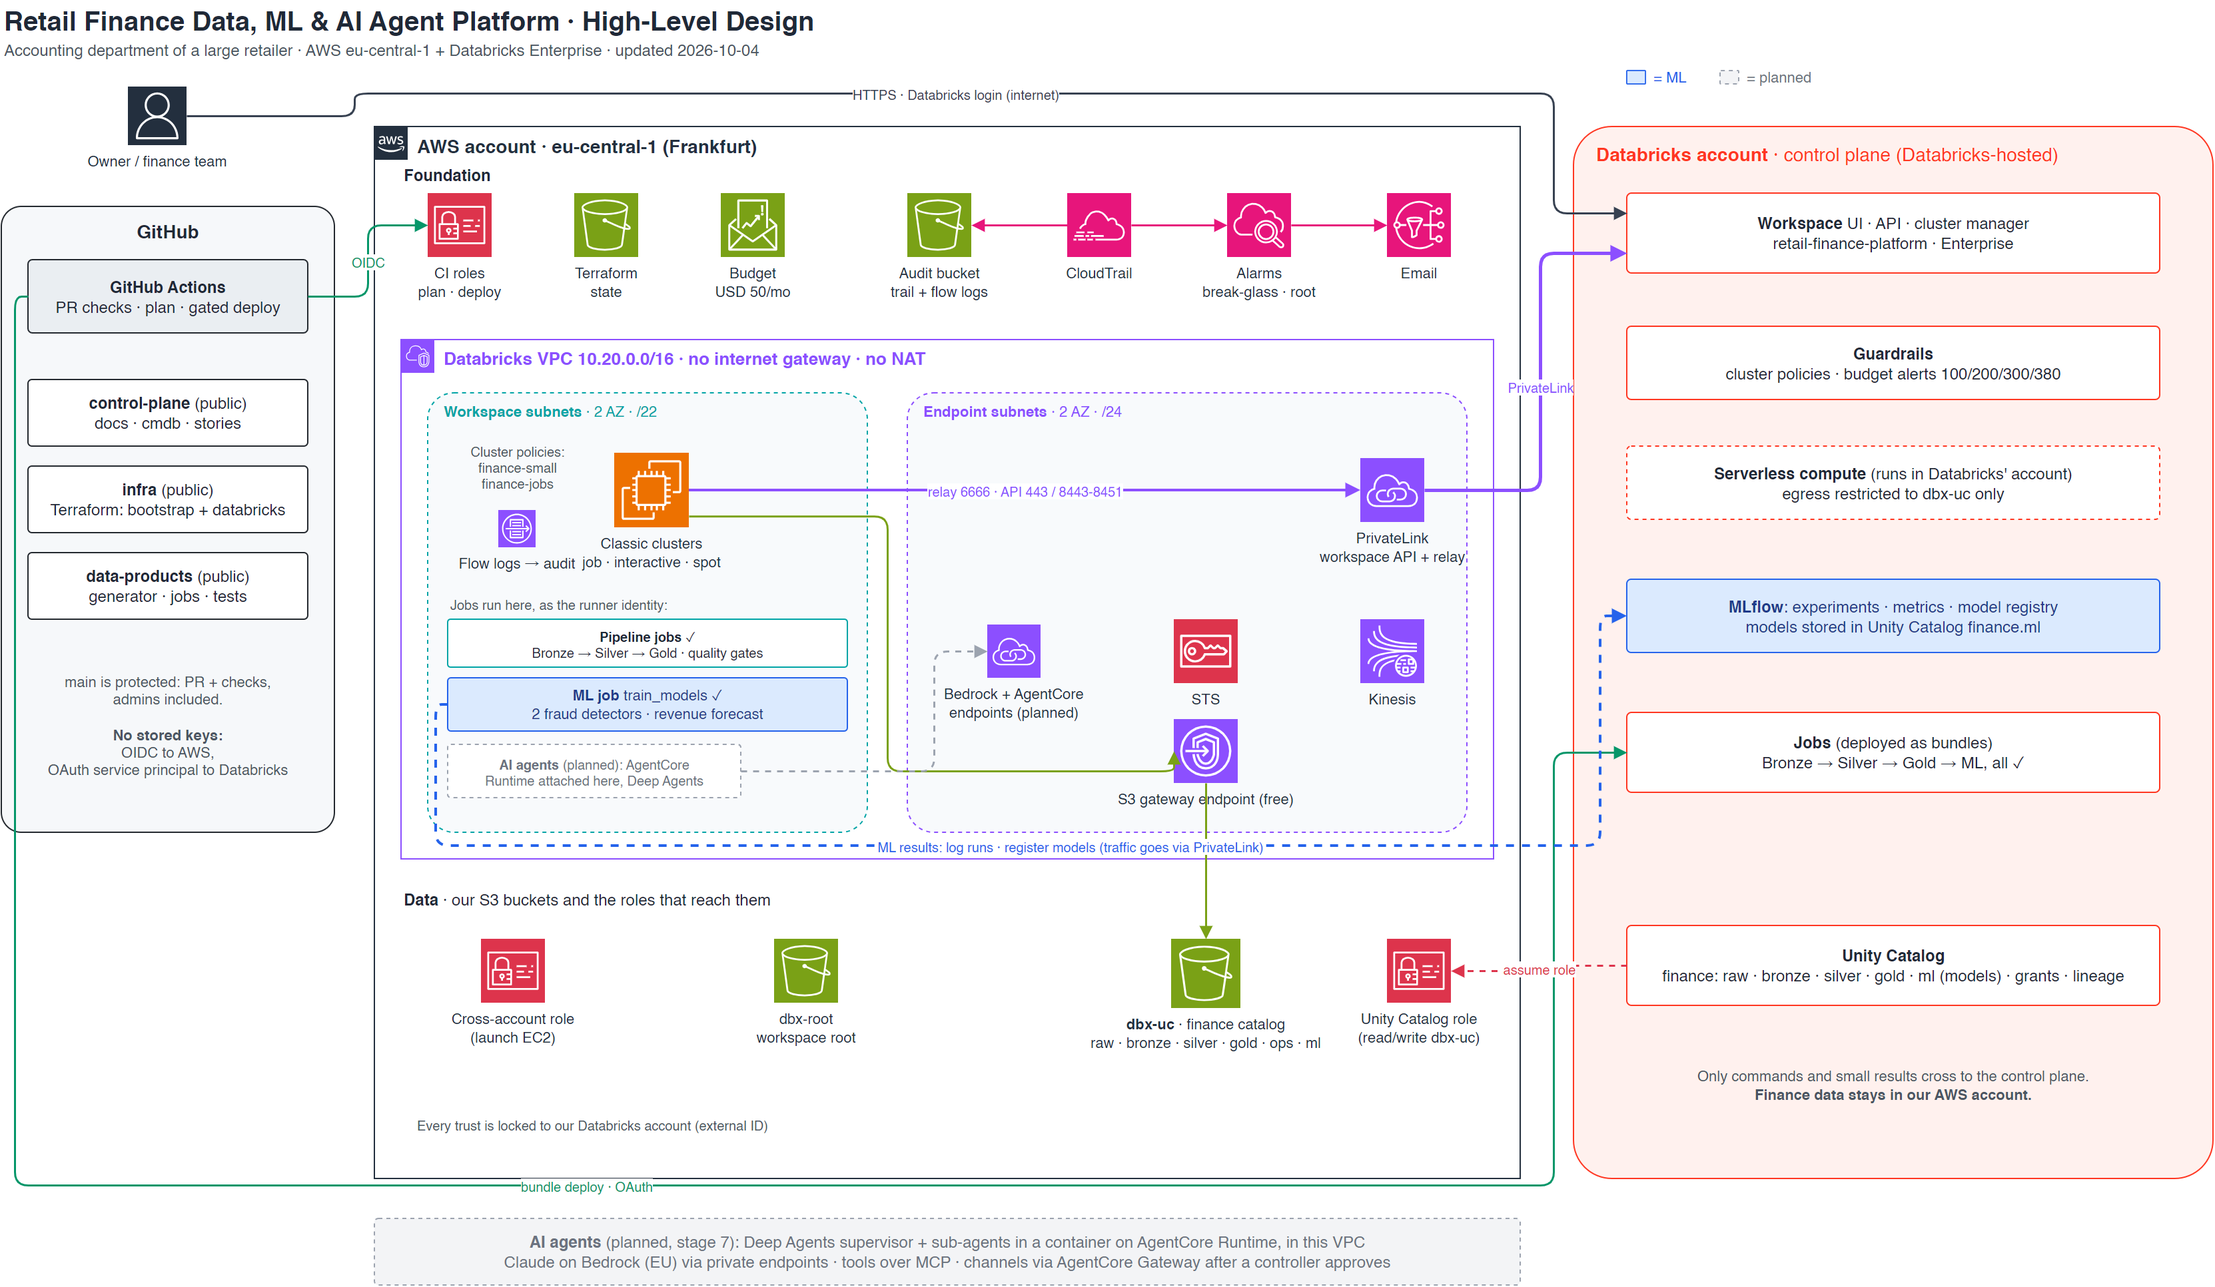
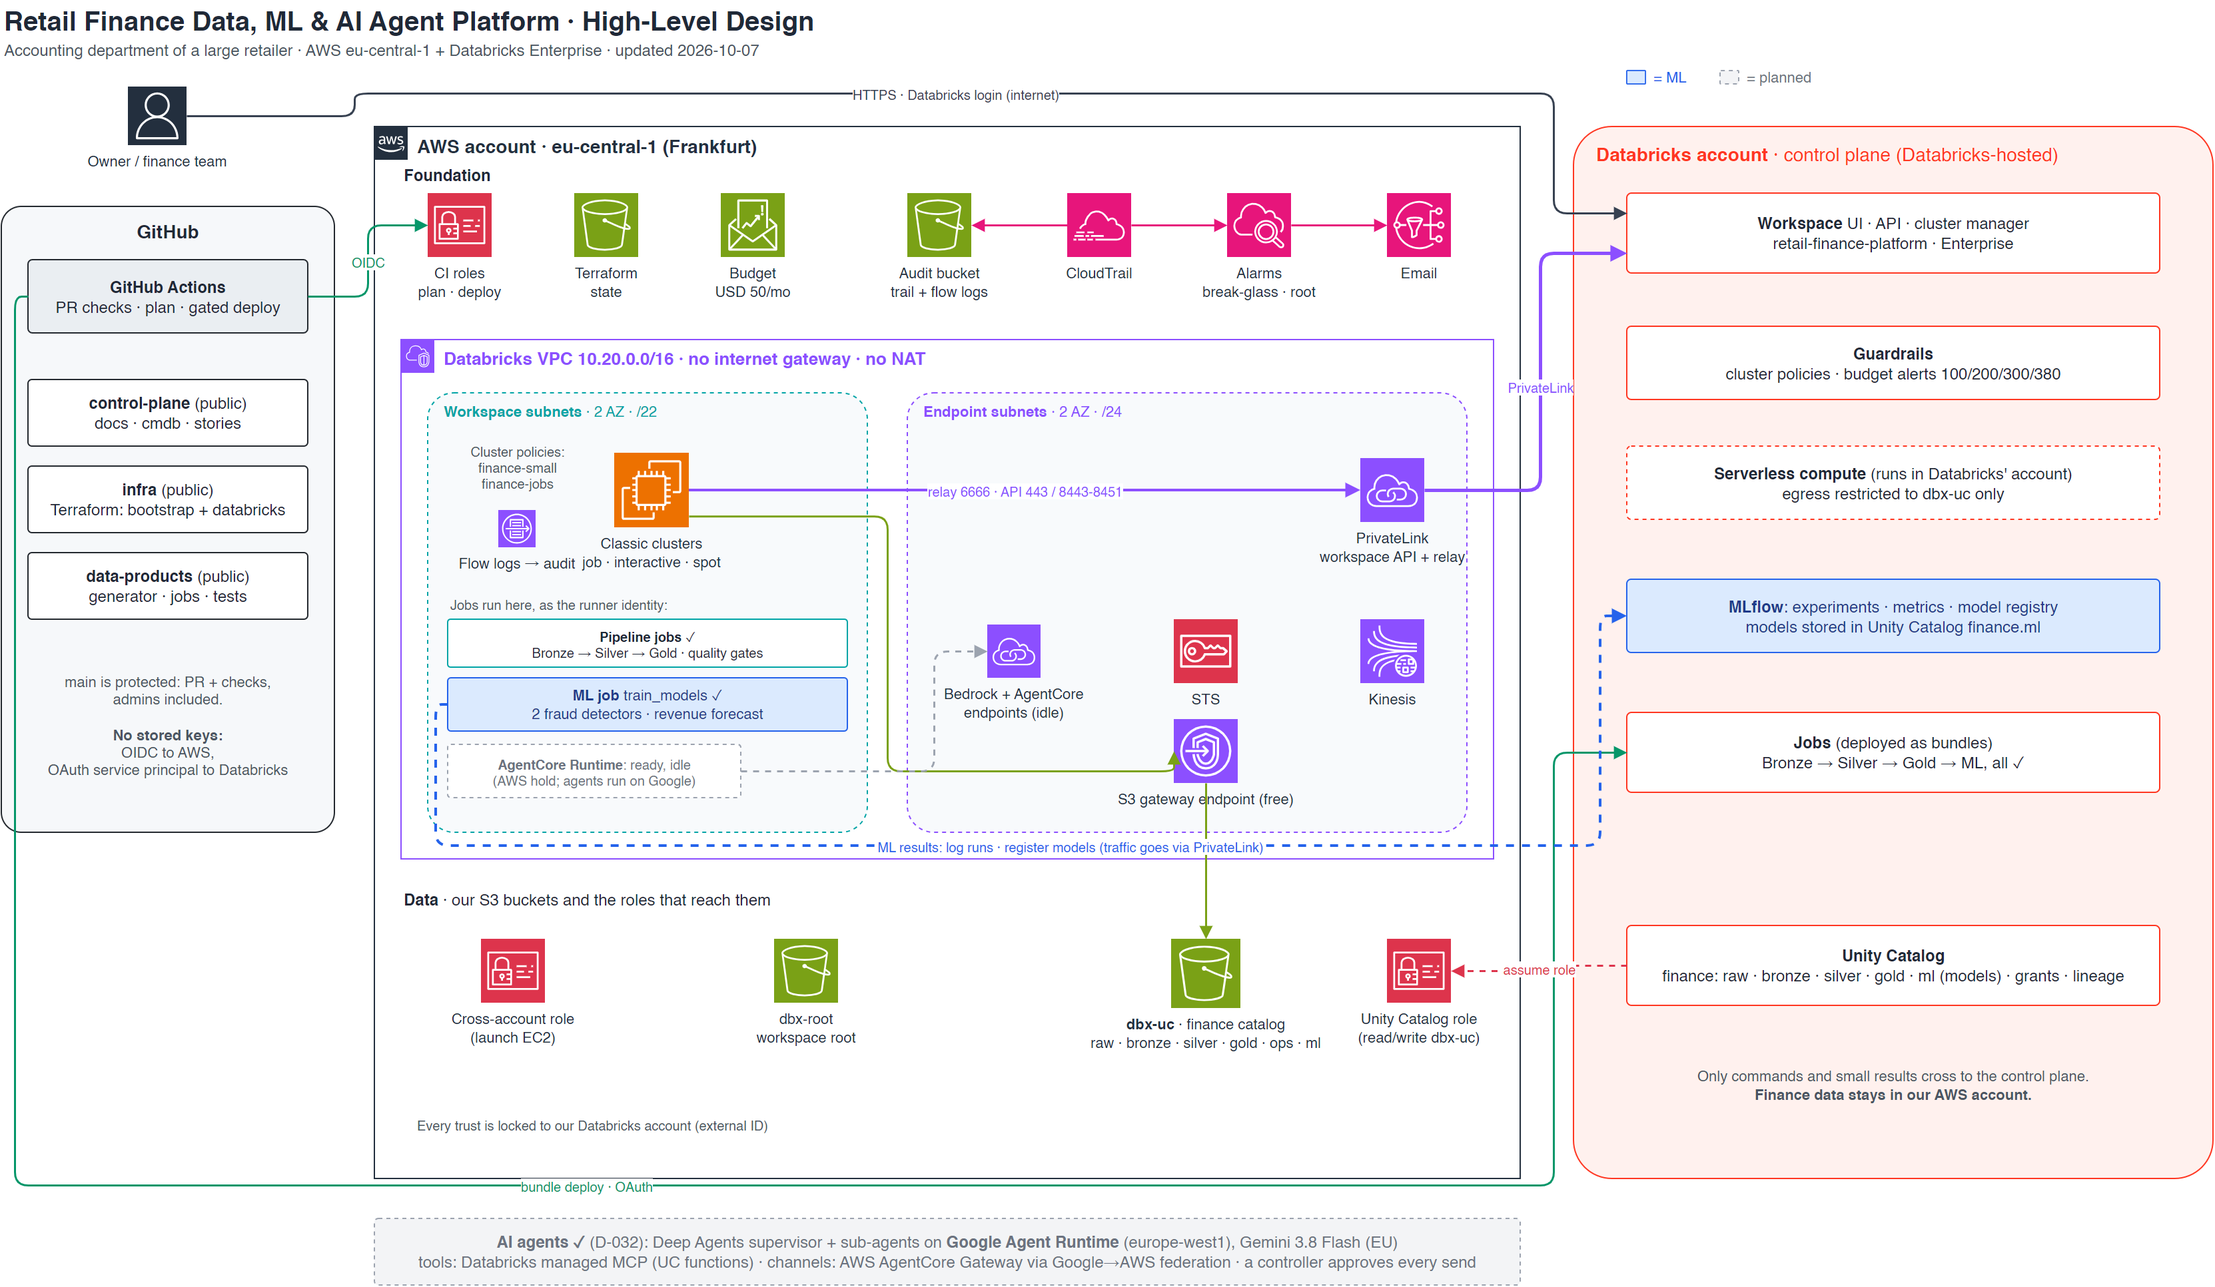
docs: story 7.1 done on Google Agent Runtime; diagrams, walkthrough, STATUS, MEMO, cmdb (D-032)

Changed region(s): [[0.1859, 0.9622, 0.6505, 0.9933], [0.2168, 0.5898, 0.3098, 0.6208], [0.4337, 0.5277, 0.4956, 0.5587]]

diff --git a/docs/stories/7.1-month-end-agent.md b/docs/stories/7.1-month-end-agent.md
@@ -1,17 +1,18 @@
 # Story 7.1 · Month-end close agent
 
-**Contents:** [TL;DR](#tldr) · [Context](#context) · [Design](#design) · [Acceptance criteria](#acceptance-criteria) · [Out of scope](#out-of-scope) · [Review](#review) · [Proof](#proof) · [References](#references)
+**Contents:** [TL;DR](#tldr) · [Context](#context) · [Design](#design) · [Where it runs today](#where-it-runs-today-google-agent-runtime) · [Acceptance criteria](#acceptance-criteria) · [Out of scope](#out-of-scope) · [Review](#review) · [Proof](#proof) · [References](#references)
 
-Planned · Epic 7 · 2026-10-04 · Infra + data repos · 🔄 Built; first agent run waits on AWS account verification
+As-built · Epic 7 · 2026-10-04 → 10-07 · Infra + data repos + GCP · ✅ Done (on Google Agent Runtime, D-032)
 
 ## TL;DR
 
 | | |
 |---|---|
 | Goal | An LLM-driven agent that drafts the cited month-end commentary, triages store-level alerts and exceptions, and sends approved items to the right channel |
-| How | Deep Agents supervisor + sub-agents in a container on AgentCore Runtime in our VPC; Claude on Bedrock (EU); data tools = Unity Catalog functions over MCP; channels = MCP tools behind AgentCore Gateway ([ADR-006](../conception/adr/ADR-006-agent-platform.md)) |
+| How | Deep Agents supervisor + sub-agents; data tools = Unity Catalog functions over MCP; channels = MCP tools behind AgentCore Gateway. Designed for AgentCore + Claude; **runs on Google Agent Runtime + Gemini 3.8 Flash (EU)** while AWS holds the account ([ADR-006](../conception/adr/ADR-006-agent-platform.md), D-032) |
 | Guardrails | Enforced outside the model: own read-only identity, no employee-level data, figure check, send tools refuse unapproved items |
-| Hardest part | The account itself: Bedrock and AgentCore Runtime are held at zero by AWS's new-account verification; everything else is built and tested |
+| Result | August 2026: three drafts, all figures checked; the controller approved one; the agent emailed it and published it to `gold.close_commentary`; the two unapproved drafts stayed put |
+| Hardest part | The account itself: AWS held Bedrock and AgentCore Runtime at zero, so the agent moved to Google's runtime with the same code and tools |
 
 ## Context
 
@@ -36,17 +37,29 @@ reconciliation and the models already hold every fact needed.
 | Tables | data | `ops.agent_drafts`, `ops.agent_runs` (traces, tokens, cost), `ops.agent_approvals`, `gold.close_commentary` (approved text for Power BI) |
 | Check | data | Every number in a draft must equal a value returned by a tool; otherwise `rejected_by_check` |
 
+## Where it runs today: Google Agent Runtime
+
+> **TL;DR:** same agent, tools and guardrails; Google runs it and Gemini thinks; AWS still guards every send.
+
+| Piece | Where | How it is secured |
+|---|---|---|
+| Agent | Vertex AI Agent Engine, europe-west1, as service account `finance-month-end-agent` | Deployed by the data repo's main branch through Workload Identity Federation (no key) |
+| Model | Gemini 3.8 Flash on Vertex AI's EU endpoint | EU processing; no training on customer data |
+| Finance tools | Databricks managed MCP (six UC functions), over the internet | OAuth M2M as `finance-month-end-agent` (EXECUTE only); credentials in GCP Secret Manager |
+| Channel tools | AgentCore Gateway (AWS) | The Google ID token is traded for role `…-agent-gcp`, which may only invoke the gateway; the Lambda checks figures and approvals |
+| Infra | `gcp/` Terraform stack (infra repo), state in the AWS bucket | First apply by the owner, as `bootstrap/` was |
+
 ## Acceptance criteria
 
-- [ ] No public route: the runtime has no internet; flow logs show only endpoint traffic.
-- [ ] Model calls only to the EU Claude profile (IAM simulator: other models refused).
-- [ ] The agent identity can execute only `finance.agent` functions and write only its ops tables: refusals shown for Silver, `gold.fraud_scores`, a Gold write and a GRANT.
-- [ ] No employee-level data reaches the model (test on every function).
-- [ ] The agent refuses to run unless the latest Gold build is certified.
-- [ ] The supervisor plans and delegates by itself (trace shows its plan and sub-agent calls); no fixed sequence in code.
-- [ ] The August 2026 draft covers revenue vs budget, the four unsupported journals, the S031 margin alert, the number of cashier cases referred to internal audit, and the forecast; every figure cited and checked.
-- [ ] A send before approval is refused by the gateway tool; after a controller approves, the next run delivers it to the stand-in channel and to `gold.close_commentary`.
-- [ ] Traces, tokens and cost per run recorded.
+- [~] No public route: holds for the AgentCore design; on Google (D-032) agent traffic crosses the internet, encrypted (accepted in ADR-006).
+- [~] EU model only: Gemini 3.8 Flash on the Vertex EU endpoint (D-032); the Bedrock IAM policy allows EU profiles only.
+- [x] The agent identity can only execute `finance.agent` functions (no table grants at all): direct read of `gold.fraud_scores` refused; it writes nothing.
+- [x] No employee-level data reaches the model (test on every function; count only).
+- [ ] The agent refuses to run unless the latest Gold build is certified (not built: the pipeline only feeds Gold after certification; follow-up).
+- [x] The supervisor plans and delegates by itself (its to-do list and three `task` delegations in the run output); no fixed sequence in code.
+- [x] The August 2026 drafts cover revenue vs budget, the four unsupported journals, the S031 margin alert, the 4 cashier cases referred to internal audit, and the forecast; every figure checked.
+- [x] Unapproved drafts are not sent; after the controller approved, the next run emailed it and published it to `gold.close_commentary`.
+- [x] Tokens per run recorded in the run output (~20-35k input, ~3.5k output: cents per run).
 
 ## Out of scope
 
@@ -81,6 +94,15 @@ reconciliation and the models already hold every fact needed.
 ### 6. The post-merge plan holds the state lock
 - The first runtime deploy failed with HTTP 412 on the lock: the CI plan of the same commit was running. Rerun after CI (same lesson as [2.2](2.2-private-network.md)).
 
+### 7. Moving clouds took three small fixes, no redesign
+- **Bucket read:** the Google SDK reads the staging bucket's metadata before uploading; `objectAdmin` is not enough (403), `legacyBucketReader` added.
+- **Nested event loop:** Agent Runtime calls `query()` inside its own loop, so `asyncio.run` failed; the sync entry point now runs the agent in its own thread (test reproduces it).
+- **Empty CA bundle:** the runtime sets CA-bundle variables to an empty string; boto3 refuses it. Empty now means unset.
+- **Lesson:** a portable design pays off when it is tested: the agent logic, tools and guardrails did not change at all.
+
+### 8. Federation instead of keys, across clouds
+- The agent on Google has no AWS key. It asks Google for an ID token (audience `retail-finance-agent-gateway`) and AWS's STS accepts it for one role whose trust names the service account's numeric ID. The first call through the gateway worked on the first try.
+
 ## Review
 
 > **TL;DR:** two independent passes (infra, data) before merge; every high finding fixed or settled by a live test.
@@ -103,7 +125,9 @@ reconciliation and the models already hold every fact needed.
 - **Infra:** agent/ stack applied (26 resources: 7 endpoints, runtime SG, ECR, Gateway with IAM auth, Lambda target, SES identity, secrets); Databricks identities, controllers group, warehouse, tables; access audit 47 securables, 0 violations.
 - **Tools:** six functions created by the runner; called as the agent through Databricks managed MCP: August 2026 net sales EUR 3,194,672.51 vs budget EUR 3,316,400.00 (-3.67%), +1.14% on the same days last year, margin 33.67%; S031 flagged #1 (margin 24.82% vs 31.75%, discount 14.48% vs 5.63%); 4 unsupported journals; 4 cashier cases referred.
 - **Channel tools through the real Gateway (SigV4):** a CFO draft with correct figures is recorded `pending_review`; the same draft with an invented "EUR 3.27m" is `rejected_by_check` naming that figure; `send_approved` refuses an unknown or unapproved draft; the notifier's attempt to write an approval is refused (no MODIFY on `agent.approvals`).
-- **Waiting on AWS:** Bedrock model access and AgentCore runtime quota (support case), then the first agent run; SES address verification (owner's inbox).
+- **Local run (2026-10-07, Gemini EU, real tools):** the supervisor wrote its plan, delegated to the three sub-agents; three drafts recorded, all `pending_review` (figure check passed); 33.7k input / 3.8k output tokens, 272 s.
+- **On Google Agent Runtime** (`reasoningEngines/8138622452193296384`): first run found the existing drafts and did not resubmit them (18.7k / 3.4k tokens). After the controller approved the CFO draft in the SQL editor, the next run sent it: status `sent`, channel email, at 12:33 UTC; published to `gold.close_commentary` with `approved_by` = the controller; the two unapproved drafts stayed `pending_review`.
+- **AWS hold:** Bedrock and AgentCore Runtime stay blocked (support case); the AgentCore design is deployable by setting the image tag and model ID.
 
 ## References
 

diff --git a/STATUS.md b/STATUS.md
@@ -11,8 +11,8 @@ Updated 2026-10-04. Detail: [`cmdb.yml`](cmdb.yml) → `phases`, `progress`. Arc
 | Goal | Show how a large retailer's accounting department could run governed finance data, ML and an AI agent on AWS + Databricks, built the enterprise way |
 | The plan in one line | Raw ERP and POS data → governed lakehouse → finance models → an agent that drafts cited commentary for the controller to approve |
 | Agent boundary | May investigate, summarise, recommend. Never posts entries, moves money or approves payments: a human signs off |
-| Where are we? | Stages 1-6 done: governed data, reconciliation 4/4, certified Gold, least-privilege identities, fraud models, scheduled pipeline with drift checks |
-| What is next? | Stage 7: the AI agent ([ADR-006](docs/conception/adr/ADR-006-agent-platform.md)); teardown 2026-10-06 |
+| Where are we? | All 7 stages done (agent on Google Agent Runtime while AWS holds Bedrock, D-032): governed data, reconciliation 4/4, certified Gold, least-privilege identities, fraud models, scheduled pipeline with drift checks |
+| What is next? | Final review, then teardown (AWS, Databricks workspace and subscription, GCP agent) with the owner's go |
 | Deadline | Databricks trial ends 2026-10-06, teardown that day |
 | Running cost | ~USD 2/day network + trial credit for Databricks |
 
@@ -33,7 +33,7 @@ Updated 2026-10-04. Detail: [`cmdb.yml`](cmdb.yml) → `phases`, `progress`. Arc
 | 4 | Transform & Quality | ✅ Done | Gold finance tables reconcile to controlled inputs | [4.1](docs/stories/4.1-silver-tables.md) ✅, [4.2](docs/stories/4.2-gl-pos-reconciliation.md) ✅, [4.3](docs/stories/4.3-gold-finance-tables.md) ✅, [4.4](docs/stories/4.4-quality-and-lineage.md) ✅, [4.5](docs/stories/4.5-split-service-principals.md) ✅ |
 | 5 | ML Models | ✅ Done | Refund fraud, margin leakage and forecast models tracked in MLflow | [5.1](docs/stories/5.1-fraud-detection.md) ✅, [5.2](docs/stories/5.2-revenue-forecast.md) ✅ |
 | 6 | Serve & Monitor | ✅ Done | Models score on a schedule, with drift checks | [6.1](docs/stories/6.1-scheduled-pipeline.md), [6.2](docs/stories/6.2-drift-checks.md) |
-| 7 | AI Agent | 🔄 In progress | Cited variance commentary; no action without human approval | [7.1](docs/stories/7.1-month-end-agent.md) |
+| 7 | AI Agent | ✅ Done | Cited variance commentary; no action without human approval | [7.1](docs/stories/7.1-month-end-agent.md) |
 
 ## Where we go
 

diff --git a/docs/stories/MEMO.md b/docs/stories/MEMO.md
@@ -13,7 +13,7 @@ To explain how it works underneath (decisions, mechanics, likely questions): [WA
 | Proof it works | All 3 planted frauds found: 4/4 fake journals (reconciliation), S017-C03 and S031 ranked #1 by models trained without the answer |
 | How it is run | Everything as code, by pull request; three identities, each unable to do the others' job |
 | What bit us most | Permissions (IAM, grants, visibility), a blocked network port, and our own bugs caught by our own checks |
-| What is left | The AI agent (stage 7, [ADR-006](../conception/adr/ADR-006-agent-platform.md)), teardown 2026-10-06 |
+| What is left | Final review and teardown |
 
 ## Stage by stage
 
@@ -43,7 +43,7 @@ To explain how it works underneath (decisions, mechanics, likely questions): [WA
 | [5.2](5.2-revenue-forecast.md) | Forecast; baseline beats the model | The first backtest was rigged by accident | Count each side's training data before trusting the winner |
 | [6.1](6.1-scheduled-pipeline.md) | One scheduled pipeline with failure email | The runner could be each job's identity but not start the jobs | An orchestrator needs rights on what it orchestrates |
 | [6.2](6.2-drift-checks.md) | PSI input drift; nightly config-drift check | PSI read noise on 40 stores and nothing on mostly-zero features | Calibrate a metric on clean data before trusting its alarms |
-| [7.1](7.1-month-end-agent.md) | Month-end agents on AgentCore, tools over MCP, gateway with figure and approval checks | AWS holds Bedrock and AgentCore at zero for a new account | Check the account's AI quotas on day 0 |
+| [7.1](7.1-month-end-agent.md) | Month-end agents (Deep Agents) draft, check and send the close commentary; a controller approves | AWS held Bedrock and AgentCore at zero: moved to Google Agent Runtime + Gemini by configuration | Check AI quotas on day 0; portability only counts once tested |
 | [Docs](README.md#how-the-docs-work) | Short docs, cmdb, diagrams, stories, AGENTS.md | 1,411 lines nobody would read | One fact, one place: cmdb says what, stories say why |
 
 ## Top 10 lessons

diff --git a/docs/stories/WALKTHROUGH.md b/docs/stories/WALKTHROUGH.md
@@ -304,9 +304,9 @@ one deploys, one runs, and none can do another's job. Every step has a story wit
 - *"How do you know the detectors work?"* Both planted frauds ranked #1 in each month they were active, with 0-3 false alarms per month.
 - *"Any ethical issue?"* Employee-level fraud scores are readable by analysts (R-12, accepted for synthetic data). In production: internal audit only, works council involved.
 
-## 11 · The AI agent (planned)
+## 11 · The AI agent
 
-> **TL;DR:** an LLM-driven supervisor with three sub-agents, in a container on AgentCore inside our VPC; tools over MCP; a person approves before anything is sent.
+> **TL;DR:** an LLM-driven supervisor with three sub-agents; tools over MCP; a person approves before anything is sent. Designed for AgentCore + Claude; runs on Google Agent Runtime + Gemini 3.8 Flash (EU) because AWS held the account (D-032).
 > [ADR-006](../conception/adr/ADR-006-agent-platform.md) · [story 7.1](7.1-month-end-agent.md)
 
 **How it works**
@@ -324,6 +324,7 @@ one deploys, one runs, and none can do another's job. Every step has a story wit
 - *"How do you stop it inventing numbers?"* Tools compute every figure; a check rejects any number no tool returned; a controller signs off.
 - *"What stops it sending something wrong to Teams?"* The send tool itself checks the approval table; the agent cannot approve.
 - *"Why not one agent that does everything?"* Blast radius and separation of duties: a supervisor delegates to specialists with their own tools.
+- *"Why is it on Google when everything else is on AWS?"* AWS held Bedrock and AgentCore at zero for a new account. Because the model and the runtime were configuration, the same agent moved to Google's runtime in a day; the guardrails stayed where they were (Databricks grants, the AWS gateway). Google signs in to AWS by federation, so no key crosses clouds.
 - *"Why no AI gateway like Envoy?"* One model provider today; Agent Router (ex-Envoy AI Gateway) is the answer when models come from several clouds.
 
 ## What I would change in production

diff --git a/docs/stories/README.md b/docs/stories/README.md
@@ -126,8 +126,8 @@ Findings go into the story (fixed, or accepted with a reason); accepted risks go
 
 ## Epic 7 · AI Agent
 
-> **TL;DR:** a cited first draft of the close commentary, read-only, approved by a person. 🔄 Started 2026-10-04 ([ADR-006](../conception/adr/ADR-006-agent-platform.md)).
+> **TL;DR:** a cited first draft of the close commentary, read-only, approved by a person. ✅ Done 2026-10-04 → 10-07 ([ADR-006](../conception/adr/ADR-006-agent-platform.md), D-032).
 
 | # | Story | One line |
 |---|---|---|
-| 7.1 | [Month-end close agent](7.1-month-end-agent.md) | 🔄 Built and tested up to the model; first run waits on AWS account verification |
+| 7.1 | [Month-end close agent](7.1-month-end-agent.md) | ✅ Drafts checked, approved, emailed; runs on Google Agent Runtime + Gemini (D-032) |
